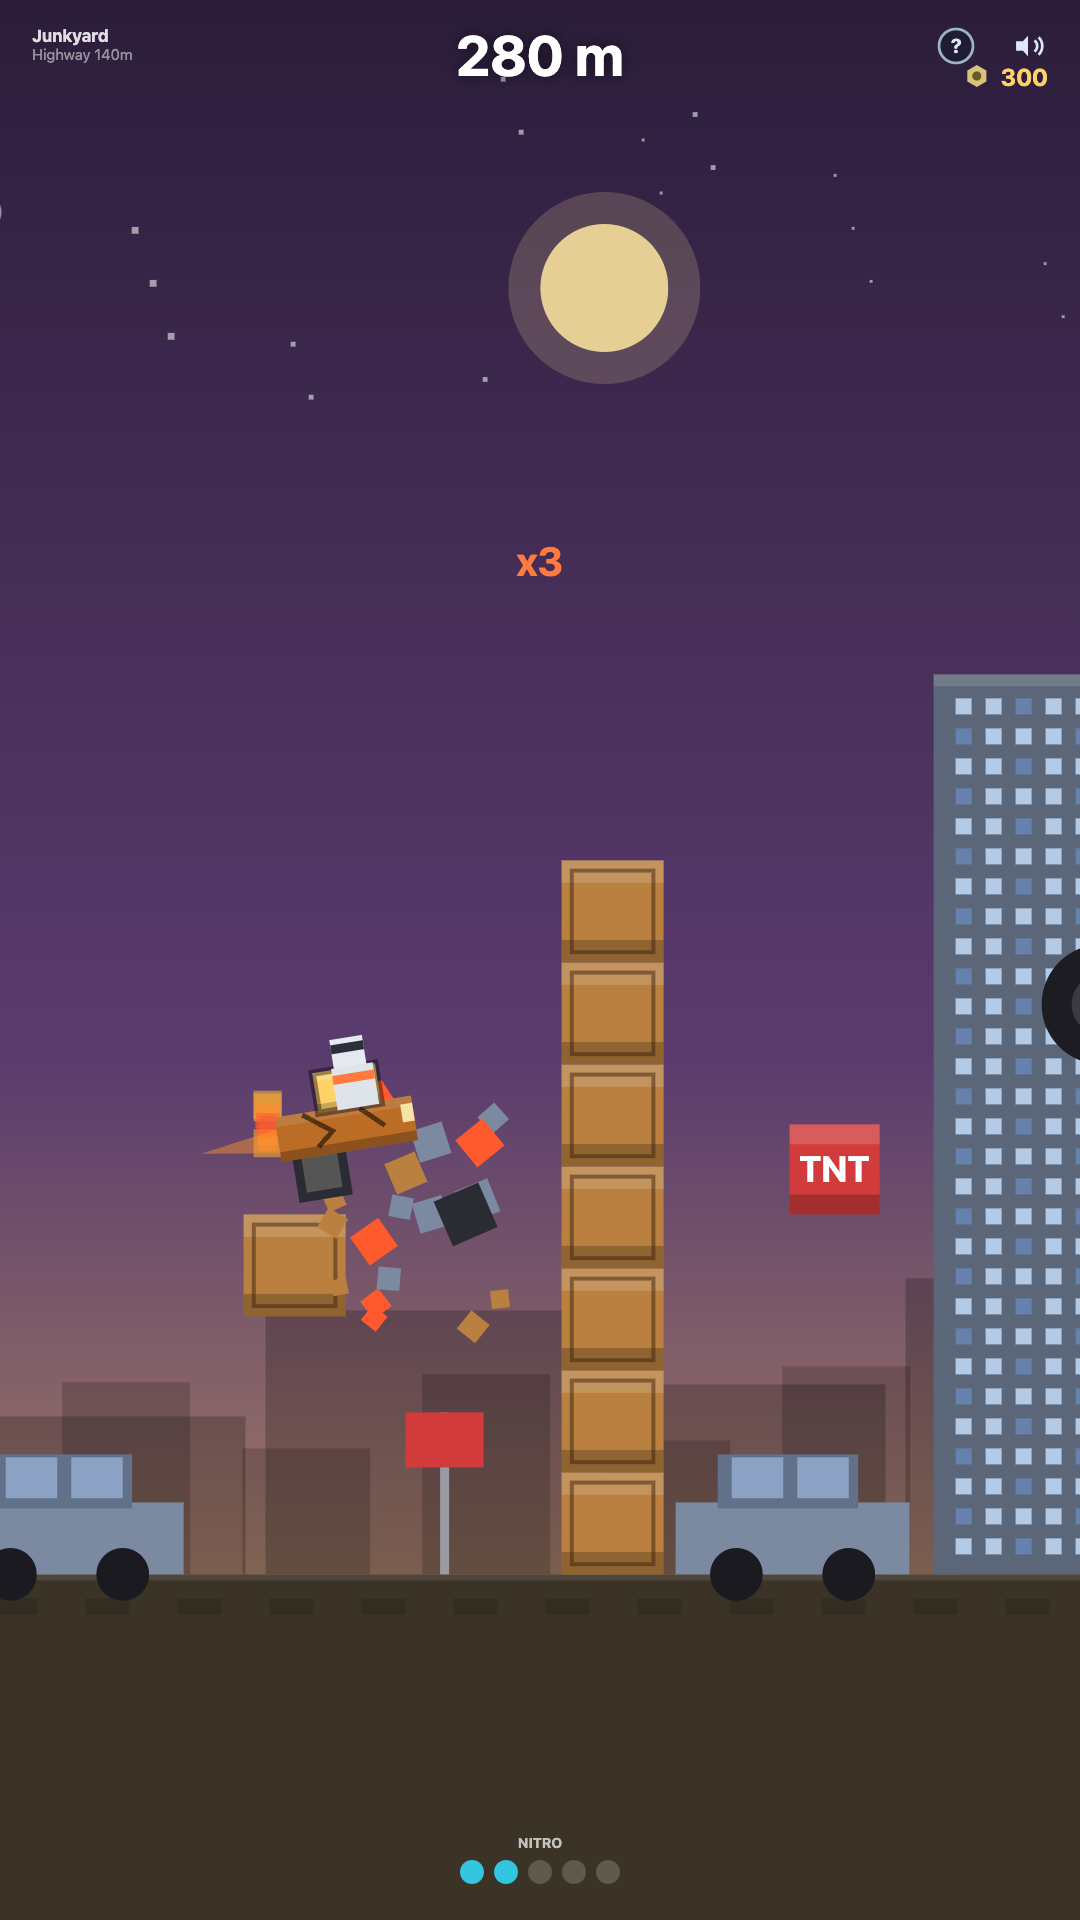
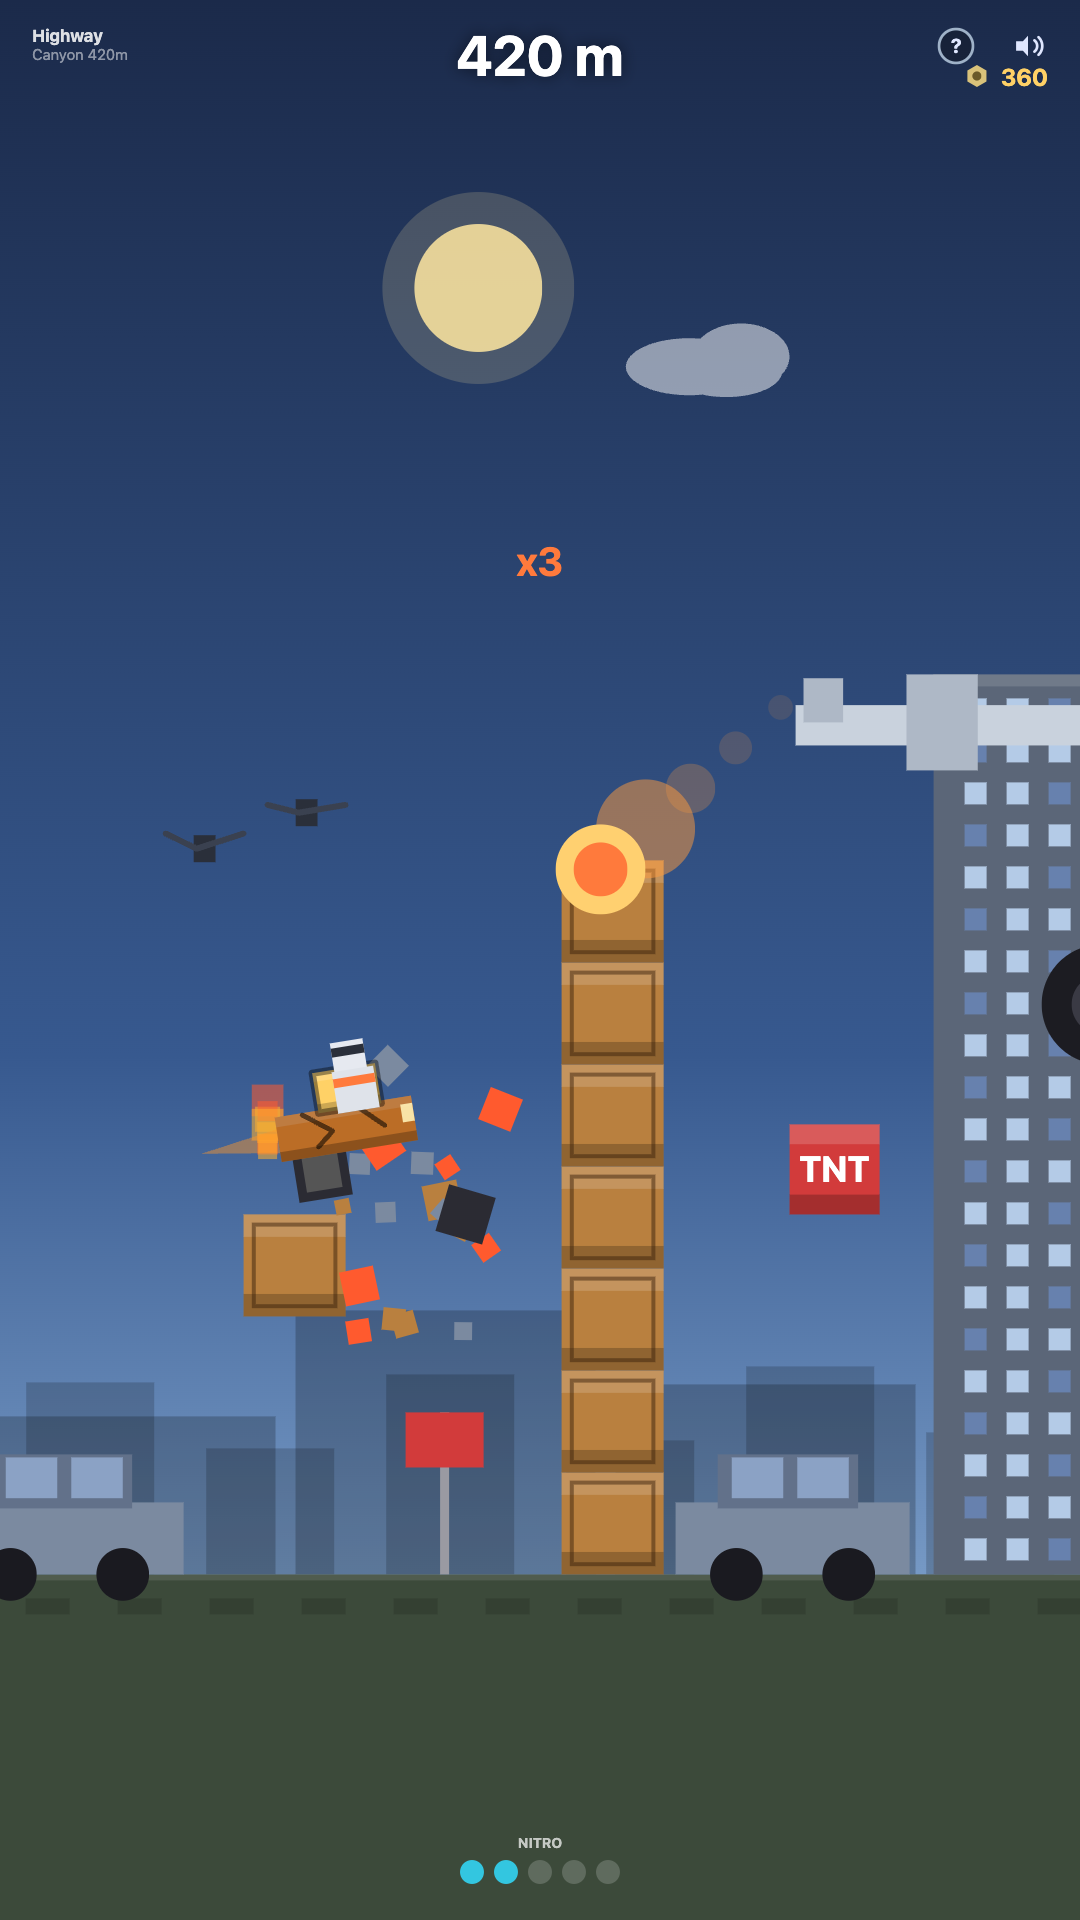
Crash Buggy: aerial obstacles + perf + towers back to 420m (Tim feedback)
- Towers no longer forced at 70m — back to 420m+ (zone 1+), as requested.
- NEW aerial obstacles in the high sky lane so you can't nitro straight up forever:
  bird flocks, planes, falling comets, and UFOs (City/Sky). Each knocks the buggy
  DOWN, capping free vertical flight. On their own sky-lane spawn track.
- Perf (laggy parallax fix): cache the sky gradient (was re-created every frame —
  the main cost), clouds drawn as ellipses not triple rounded-rects, tower windows
  coarsened + clamped to the visible band, debris skip the rotate-transform when
  not spinning.

diff --git a/games/crash_buggy/index.html b/games/crash_buggy/index.html
@@ -147,7 +147,7 @@ var buggy = { x: 0, y: 0, vx: 0, vy: 0, rot: 0, vr: 0, onGround: false, restT: 0
 var startX = 0, dist = 0, runScrap = 0, smashes = 0, combo = 0, comboT = 0;
 var nitro = 0, zoneIdx = 0, prevZoneIdx = 0;
 var charge = 0, chargeDir = 1, held = false;
-var props = [], debris = [], frontX = 0, towerSeeded = false;
+var props = [], debris = [], frontX = 0, frontAirX = 0;
 var camX = 0, camY = 0, camScale = 1, scl = 1;
 var bannerT = 0, nitroHint = false, nitroHintT = 0, launchFlash = 0;
 var tally = { dist: 0, smashes: 0, comboBonus: 0, scrap: 0, t: 0, best: false };
@@ -181,10 +181,10 @@ function resetRun() {
   buggy.rot = 0; buggy.vr = 0; buggy.onGround = true; buggy.restT = 0;
   buggy.dmg = 0; buggy.parts = { wheelF: true, wheelR: true, cabin: true, driver: true };
   dist = 0; runScrap = 0; smashes = 0; combo = 0; comboT = 0;
-  nitro = statNitroMax(); zoneIdx = 0; prevZoneIdx = 0; towerSeeded = false;
+  nitro = statNitroMax(); zoneIdx = 0; prevZoneIdx = 0;
   charge = 0; chargeDir = 1; held = false; bannerT = 0; launchFlash = 0;
   nitroHint = false; nitroHintT = 0;
-  props = []; debris = []; frontX = startX - 100;
+  props = []; debris = []; frontX = startX - 100; frontAirX = startX + 240;
   camScale = 1; scl = GF.S; camX = buggy.x - (GF.W * 0.40) / Math.max(0.001, scl); camY = 0;
   generateAhead();
 }
@@ -253,26 +253,21 @@ function generateAhead() {
   var guard = 0;
   while (frontX < need && guard++ < 80) {
     frontX += R(70, 190);
-    var d = (frontX - startX) / PX_PER_M;
-    spawnCluster(frontX, zoneOf(d));
+    spawnCluster(frontX, zoneOf((frontX - startX) / PX_PER_M));
+  }
+  // AERIAL obstacles up in the sky lane — so you can't just nitro straight up forever
+  var g2 = 0;
+  while (frontAirX < need && g2++ < 40) {
+    frontAirX += R(150, 320);
+    spawnAir(frontAirX, zoneOf((frontAirX - startX) / PX_PER_M));
   }
   var cullX = camX - 280;
-  if (props.length > 240) props = props.filter(function (p) { return p.x + (p.w || 40) > cullX; });
+  if (props.length > 280) props = props.filter(function (p) { return p.x + (p.w || 40) > cullX; });
 }
 function spawnCluster(x, z) {
-  var d = (x - startX) / PX_PER_M;
-  // GUARANTEED early skyscraper (~70 m into EVERY run) so the air-obstacle is
-  // always seen + the buggy reliably crashes through it (tall enough to catch the
-  // descending arc), even on a short no-upgrade launch.
-  if (!towerSeeded && d > 70) {
-    towerSeeded = true;
-    var th0 = R(180, 250);
-    pushProp('tower', x, -th0, R(60, 82), th0, 2, 18);
-    return;
-  }
-  // AIR OBSTACLE: extra skyscrapers in any zone (denser in City/Sky). Hitting one
-  // slows you; smash through or clear the top with Ramp/Nitro. Not an unavoidable wall.
-  if (Math.random() < 0.08 + z * 0.03) {
+  // skyscraper (ground obstacle) from Highway (420 m+) onward, denser in City/Sky.
+  // Slows you on impact; smash through, or clear the top with Ramp/Nitro.
+  if (z >= 1 && Math.random() < 0.10 + z * 0.03) {
     var th = R(150, 190 + z * 40);
     pushProp('tower', x, -th, R(58, 84), th, z >= 3 ? 3 : 2, 14 + z * 3);
     return;
@@ -296,6 +291,19 @@ function spawnCluster(x, z) {
   var cn = RI(2, 4);
   for (var j = 0; j < cn; j++) pushProp('cone', x + j * 26, -30, 24, 30, 0, 2);
   if (Math.random() < 0.4) pushProp('sign', x + cn * 26 + 14, -54, 10, 54, 0, 2);
+}
+// ── AERIAL OBSTACLES (high sky lane) ───────────────────────────────────────
+function pushAir(type, x, y, w, h, mass, scrapVal, vx, vy) {
+  props.push({ type: type, x: x, y: y, w: w, h: h, dead: false, mass: mass, scrap: scrapVal,
+    used: false, air: true, vx: vx || 0, vy: vy || 0, t: R(0, 6.28) });
+}
+function spawnAir(x, z) {
+  var roll = Math.random();
+  if (z >= 3 && roll < 0.30) { pushAir('ufo', x, -R(260, 520), 78, 30, 2, 16); return; }      // starship
+  if (z >= 1 && roll < 0.52) { pushAir('plane', x, -R(340, 540), 132, 32, 2, 18); return; }
+  if (roll < 0.68) { pushAir('comet', x, -R(440, 640), 30, 30, 1, 12, -R(90, 170), R(220, 320)); return; }  // falls down-left
+  var n = RI(2, 3);                                                                            // bird flock
+  for (var i = 0; i < n; i++) pushAir('bird', x + i * 34, -R(220, 470) + R(-18, 18), 26, 18, 0, 4);
 }
 
 // ── DEBRIS / FX (voxel chunks) ────────────────────────────────────────────
@@ -392,6 +400,20 @@ function handleSmash(p) {
     GF.setShake(0.85); GF.sfx('hit'); GF.sfx('reward');
     GF.spawnParticles(sx(p.x + p.w / 2), sy(p.y + p.h / 2), '#ffb02e', 22);
     damageBuggy(0.22);
+  } else if (p.type === 'bird') {
+    col = '#eef2f7'; n = 8; buggy.vx *= 0.94; if (buggy.vy < 0) buggy.vy *= 0.55; buggy.vy += 70; sfxRL('tap', 50);
+  } else if (p.type === 'plane') {
+    col = '#c9d2dd'; skipDebris = true; buggy.vx *= 0.6; buggy.vy = Math.abs(buggy.vy) * 0.4 + 210; buggy.onGround = false; buggy.restT = 0;
+    GF.setShake(0.7); GF.sfx('hit'); sfxRL('hurt', 70); damageBuggy(0.22);
+    spawnDebris(p.x, p.y, p.w, p.h, '#c9d2dd', 14); spawnDebris(p.x + p.w * 0.3, p.y, p.w * 0.4, p.h, 'rgba(150,200,255,0.6)', 6);
+  } else if (p.type === 'comet') {
+    col = '#ffae42'; n = 14; buggy.vy = Math.abs(buggy.vy) * 0.3 + 250; buggy.vx *= 0.82; buggy.onGround = false; buggy.restT = 0;
+    GF.setShake(0.75); GF.sfx('hit'); sfxRL('hurt', 70); damageBuggy(0.2);
+    GF.spawnParticles(sx(p.x + p.w / 2), sy(p.y + p.h / 2), '#ff7a3c', 18);
+  } else if (p.type === 'ufo') {
+    col = '#7fe0ff'; n = 14; buggy.vx *= 0.7; buggy.vy = Math.abs(buggy.vy) * 0.3 + 160; buggy.onGround = false; buggy.restT = 0;
+    GF.setShake(0.6); GF.sfx('hit'); sfxRL('merge', 70); damageBuggy(0.16);
+    GF.spawnParticles(sx(p.x + p.w / 2), sy(p.y + p.h / 2), '#7fe0ff', 16);
   }
   if (!skipDebris) spawnDebris(p.x, p.y, p.w, p.h, col, n);
   if (p.type !== 'cone' && p.type !== 'sign') sfxRL('hit', 45); else sfxRL('tap', 40);
@@ -476,6 +498,13 @@ function update(dt) {
   if (comboT > 0) { comboT -= dt; if (comboT <= 0) combo = 0; }
   if (nitroHint) { nitroHintT += dt; if (nitroHintT > 4) nitroHint = false; }
 
+  // move drifting/falling aerial obstacles (comets fall; others are stationary)
+  for (var mi = 0; mi < props.length; mi++) {
+    var mp = props[mi];
+    if (mp.dead || (!mp.vx && !mp.vy)) continue;
+    mp.x += mp.vx * dt; mp.y += mp.vy * dt;
+    if (mp.y > 30) mp.dead = true;
+  }
   var bx0 = buggy.x - BUGGY_W / 2, bx1 = buggy.x + BUGGY_W / 2;
   var by0 = buggy.y - BUGGY_H / 2, by1 = buggy.y + BUGGY_H / 2;
   for (var i = 0; i < props.length; i++) {
@@ -525,11 +554,19 @@ function draw(c) {
   if (helpOpen) drawHelpCard(c);
   GF.tutorial.draw(c);
 }
+var _skyGrad = { key: '' };
+function skyGradFor(c, z, H) {                 // cache the gradient — recreating it every frame was the parallax lag
+  var key = z + '_' + H;
+  if (_skyGrad.key !== key) {
+    var pal = ZONE_SKY[z] || ZONE_SKY[0];
+    var g = c.createLinearGradient(0, 0, 0, H);
+    g.addColorStop(0, pal[0]); g.addColorStop(0.55, pal[1]); g.addColorStop(1, pal[2]);
+    _skyGrad = { key: key, grad: g };
+  }
+  return _skyGrad.grad;
+}
 function drawSky(c, z) {
-  var W = GF.W, H = GF.H, pal = ZONE_SKY[z] || ZONE_SKY[0];
-  var g = c.createLinearGradient(0, 0, 0, H);
-  g.addColorStop(0, pal[0]); g.addColorStop(0.55, pal[1]); g.addColorStop(1, pal[2]);
-  c.fillStyle = g; c.fillRect(0, 0, W, H);
+  c.fillStyle = skyGradFor(c, z, GF.H); c.fillRect(0, 0, GF.W, GF.H);
   drawSkyDetail(c, z);
 }
 function drawSkyDetail(c, z) {
@@ -568,9 +605,11 @@ function drawSkyDetail(c, z) {
   }
 }
 function cloudPuff(c, x, y, w, h) {
-  rr(c, x, y, w, h, h / 2); c.fill();
-  rr(c, x + w * 0.22, y - h * 0.5, w * 0.5, h * 1.1, h * 0.55); c.fill();
-  rr(c, x + w * 0.5, y - h * 0.2, w * 0.45, h * 0.9, h * 0.45); c.fill();
+  c.beginPath();
+  c.ellipse(x + w * 0.30, y, w * 0.34, h * 0.62, 0, 0, 6.28);
+  c.ellipse(x + w * 0.58, y - h * 0.22, w * 0.26, h * 0.72, 0, 0, 6.28);
+  c.ellipse(x + w * 0.50, y + h * 0.10, w * 0.30, h * 0.56, 0, 0, 6.28);
+  c.fill();
 }
 function drawParallax(c, z) {
   var W = GF.W, S = GF.S, gy = sy(0);
@@ -622,6 +661,35 @@ function drawProps(c) {
     else if (p.type === 'tnt') { voxBox(c, X, Y, Wd, Hd, '#d23b3b'); c.fillStyle = '#fff'; c.font = 'bold ' + (Hd * 0.4) + 'px Inter, system-ui, sans-serif'; c.textAlign = 'center'; c.textBaseline = 'middle'; c.fillText(GF.t('tntLabel'), X + Wd / 2, Y + Hd / 2 + 1); c.textBaseline = 'alphabetic'; }
     else if (p.type === 'boost') { var by = sy(-14); c.fillStyle = '#7CFC9A'; c.fillRect(X, by, Wd, 14 * scl); c.fillStyle = '#1d6b3a'; for (var a = 0; a < 3; a++) { c.beginPath(); c.moveTo(X + Wd * (0.2 + a * 0.28), by + 12 * scl); c.lineTo(X + Wd * (0.32 + a * 0.28), by + 2 * scl); c.lineTo(X + Wd * (0.44 + a * 0.28), by + 12 * scl); c.closePath(); c.fill(); } }
     else if (p.type === 'tower') { drawTowerProp(c, X, Y, Wd, Hd, p); }
+    else if (p.air) { drawAirProp(c, p, X, Y, Wd, Hd); }
+  }
+}
+function drawAirProp(c, p, X, Y, Wd, Hd) {
+  var S = GF.S, t = (typeof performance !== 'undefined' ? performance.now() : 0) / 1000 + p.t;
+  if (p.type === 'bird') {
+    var flap = Math.sin(t * 9) * Hd * 0.5;
+    c.fillStyle = '#2a2f3a'; c.fillRect(X + Wd * 0.36, Y + Hd * 0.2, Wd * 0.28, Hd * 0.5);
+    c.strokeStyle = '#3a4150'; c.lineWidth = Math.max(2, 3 * S); c.lineCap = 'round'; c.lineJoin = 'round';
+    c.beginPath(); c.moveTo(X, Y + Hd * 0.4 + flap); c.lineTo(X + Wd * 0.4, Y + Hd * 0.45); c.lineTo(X + Wd, Y + Hd * 0.4 + flap); c.stroke();
+  } else if (p.type === 'plane') {
+    c.fillStyle = '#c9d2dd'; c.fillRect(X, Y + Hd * 0.32, Wd, Hd * 0.42);                       // fuselage
+    c.fillStyle = '#aeb8c6'; c.fillRect(X + Wd * 0.28, Y, Wd * 0.18, Hd);                        // wing
+    c.fillRect(X + Wd * 0.02, Y + Hd * 0.04, Wd * 0.1, Hd * 0.46);                               // tail fin
+    c.fillStyle = '#8fb6ff'; c.fillRect(X + Wd * 0.78, Y + Hd * 0.38, Wd * 0.14, Hd * 0.3);      // cockpit
+    c.fillStyle = '#d23b3b'; c.fillRect(X + Wd * 0.92, Y + Hd * 0.4, Wd * 0.08, Hd * 0.24);      // nose
+  } else if (p.type === 'comet') {
+    var cx = X + Wd / 2, cy = Y + Hd / 2;
+    c.save(); c.fillStyle = '#ff9a3c';
+    for (var k = 4; k >= 1; k--) { c.globalAlpha = 0.5 / k; c.beginPath(); c.arc(cx + k * Wd * 0.5, cy - k * Hd * 0.45, (Wd * 0.55) / k, 0, 6.28); c.fill(); }
+    c.restore();
+    c.fillStyle = '#ffd070'; c.beginPath(); c.arc(cx, cy, Wd * 0.5, 0, 6.28); c.fill();
+    c.fillStyle = '#ff7a3c'; c.beginPath(); c.arc(cx, cy, Wd * 0.3, 0, 6.28); c.fill();
+  } else if (p.type === 'ufo') {
+    var ux = X + Wd / 2, uy = Y + Hd / 2 + Math.sin(t * 2) * Hd * 0.15;
+    c.save(); c.globalAlpha = 0.22; c.fillStyle = '#7fe0ff'; c.beginPath(); c.ellipse(ux, uy + Hd * 0.5, Wd * 0.38, Hd * 0.6, 0, 0, 6.28); c.fill(); c.restore();   // tractor beam
+    c.fillStyle = '#b9c4d4'; c.beginPath(); c.ellipse(ux, uy, Wd * 0.5, Hd * 0.42, 0, 0, 6.28); c.fill();        // saucer
+    c.fillStyle = '#9fb0c4'; c.beginPath(); c.ellipse(ux, uy - Hd * 0.08, Wd * 0.26, Hd * 0.42, 0, Math.PI, 0); c.fill();  // dome
+    c.fillStyle = '#7fe0ff'; for (var li = 0; li < 3; li++) { c.beginPath(); c.arc(ux + (li - 1) * Wd * 0.22, uy + Hd * 0.16, Wd * 0.05, 0, 6.28); c.fill(); }      // lights
   }
 }
 function drawTowerProp(c, X, Y, Wd, Hd, p) {
@@ -629,13 +697,16 @@ function drawTowerProp(c, X, Y, Wd, Hd, p) {
   c.fillStyle = '#5b6678'; c.fillRect(X, Y, Wd, Hd);
   c.fillStyle = 'rgba(255,255,255,0.13)'; c.fillRect(X, Y, Wd, Math.max(2, 6 * S));          // roof cap
   c.fillStyle = 'rgba(0,0,0,0.25)'; c.fillRect(X + Wd - 6 * S, Y, 6 * S, Hd);                 // right-edge shade
-  var ww = Math.max(4, 8 * S), wgap = Math.max(4, 7 * S);
-  var cols = Math.max(2, Math.floor((Wd - wgap) / (ww + wgap)));
-  var x0 = X + (Wd - (cols * (ww + wgap) - wgap)) / 2, base = (p.x | 0);
-  for (var wy = Y + 12 * S; wy < Y + Hd - ww; wy += ww + wgap) {
+  // window grid — coarse + clamped to the visible band (perf: tall towers used to
+  // draw hundreds of off-screen window rects every frame)
+  var ww = Math.max(6, 11 * S), step = ww + Math.max(6, 10 * S);
+  var cols = Math.max(2, Math.floor((Wd - 10 * S) / step));
+  var x0 = X + (Wd - (cols * step - (step - ww))) / 2, base = (p.x | 0);
+  var top = Math.max(Y + 12 * S, -step), bot = Math.min(Y + Hd - ww, GF.H + step);
+  for (var wy = top; wy < bot; wy += step) {
     for (var wc = 0; wc < cols; wc++) {
       c.fillStyle = ((((wy | 0) * 3 + wc * 7 + base) % 4) === 0) ? 'rgba(120,170,255,0.4)' : 'rgba(200,225,255,0.82)';
-      c.fillRect(x0 + wc * (ww + wgap), wy, ww, ww);
+      c.fillRect(x0 + wc * step, wy, ww, ww);
     }
   }
 }
@@ -651,10 +722,10 @@ function drawDebris(c) {
   for (var i = 0; i < debris.length; i++) {
     var d = debris[i], X = sx(d.x), Y = sy(d.y), sz = d.size * scl;
     if (X < -20 || X > GF.W + 20) continue;
-    c.globalAlpha = Math.max(0, Math.min(1, d.life));
-    c.save(); c.translate(X, Y); c.rotate(d.rot);
-    c.fillStyle = d.color; c.fillRect(-sz / 2, -sz / 2, sz, sz);
-    c.restore();
+    c.globalAlpha = d.life > 1 ? 1 : (d.life < 0 ? 0 : d.life);
+    c.fillStyle = d.color;
+    if (d.rot) { c.save(); c.translate(X, Y); c.rotate(d.rot); c.fillRect(-sz / 2, -sz / 2, sz, sz); c.restore(); }
+    else c.fillRect(X - sz / 2, Y - sz / 2, sz, sz);   // flames/dust: no transform
   }
   c.globalAlpha = 1;
 }
@@ -1081,6 +1152,10 @@ window._setupForScreenshot = function (level) {
   pushProp('cone',   bx + 320, -30, 24, 30, 0, 2); pushProp('cone', bx + 346, -30, 24, 30, 0, 2);
   pushProp('boost',  bx + 410, -14, 54, 14, 0, 4);
   pushProp('car',    bx - 132, -40, 78, 40, 3, 16);
+  // aerial obstacles up in the sky (showcase the new content)
+  pushAir('plane', bx + 150, -300, 132, 32, 2, 18);
+  pushAir('bird',  bx - 60,  -250, 26, 18, 0, 4); pushAir('bird', bx - 26, -262, 26, 18, 0, 4);
+  pushAir('comet', bx + 70,  -250, 30, 30, 1, 12);
   frontX = bx + 520; generateAhead();
   combo = 5; comboT = COMBO_WINDOW; runScrap = 240 + lv * 30; smashes = 12 + lv; nitro = 2;
   // explosion debris frozen mid-air around the buggy